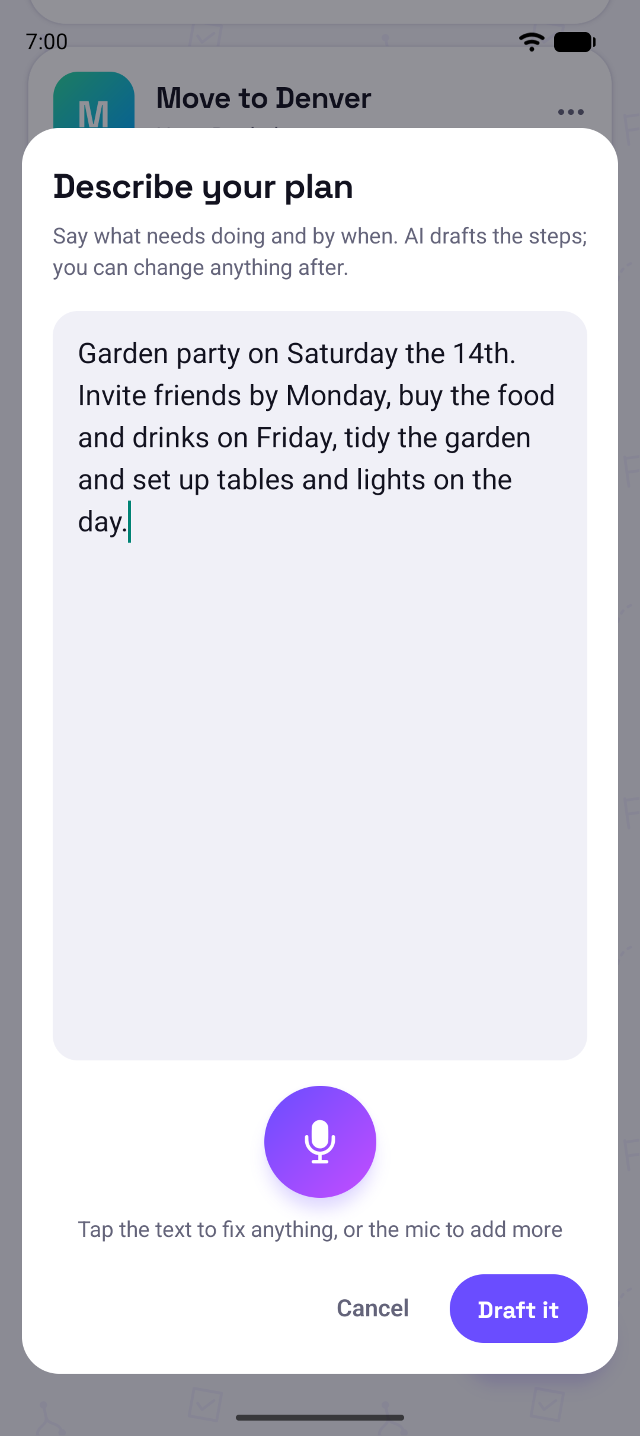
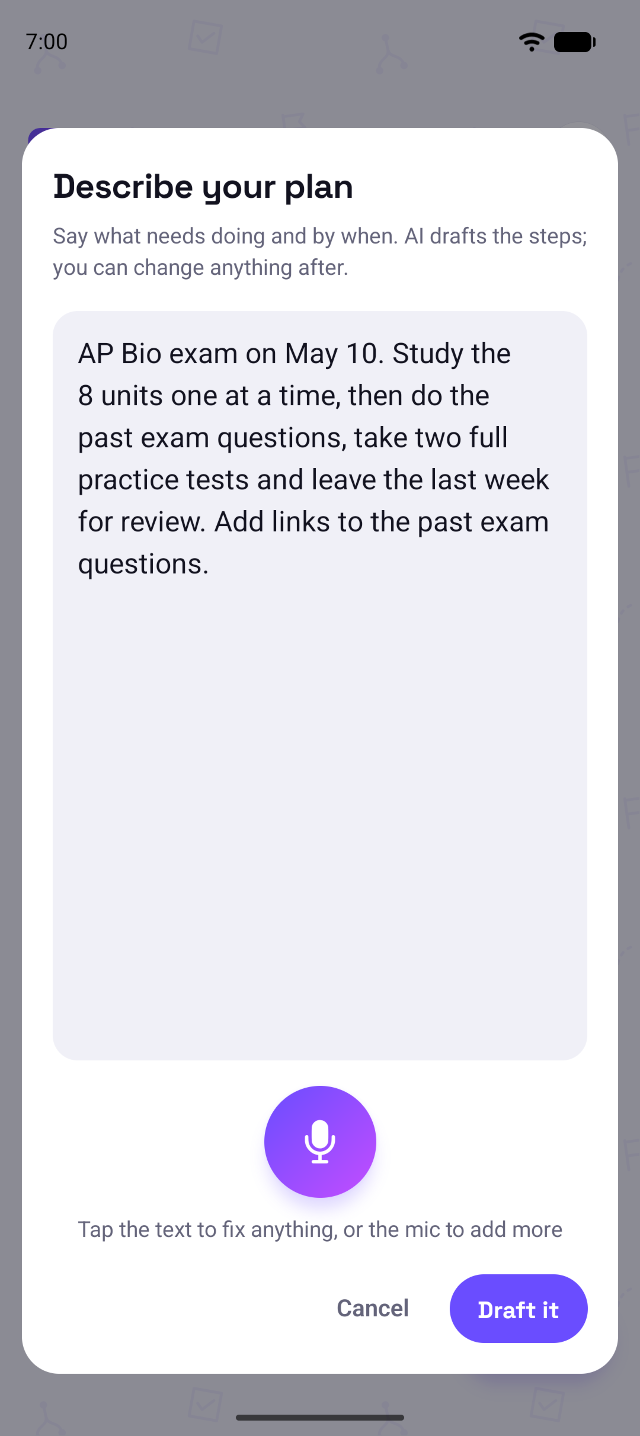
Describe it: a real AP Bio exam plan, its map and a task with a tappable link to past exam questions

Changed region(s): [[0.125, 0.2145, 0.8438, 0.3983], [0.25, 0.0613, 0.5625, 0.0919], [0.0625, 0.0306, 0.2188, 0.0919]]

diff --git a/index.html b/index.html
@@ -196,20 +196,20 @@
       <div class="container describe">
         <div class="describe__copy">
           <h2>Just say what you’re planning</h2>
-          <p>Type it, or tap the mic and say it: “Garden party on Saturday. Invite friends, buy the food and drinks, tidy the garden and set up tables.” AI drafts the steps, what waits on what, and when each is due.</p>
+          <p>Type it, or tap the mic and say it: “AP Bio exam on May 10. Study the 8 units one at a time, then do the past exam questions, take two full practice tests and leave the last week for review. Add links to the past exam questions.”</p>
+          <p>AI drafts the steps, what waits on what, and when each is due: all eight units in order through the winter, practice tests in April, and the College Board’s past exam questions linked right in the task, ready to tap.</p>
           <p>It plans by the hour as well as the day. Try “Christmas dinner for 10, everything ready by 3pm” and every dish gets its own timed steps, from the turkey going in to carving, with handy notes like oven temperatures. Holidays such as Thanksgiving and Mother’s Day land on your country’s date.</p>
-          <p>It’s good for exam prep, too. “AP Bio exam on May 11. Go through every unit, do the past free-response questions, two full practice tests” becomes weeks of steps that build toward the day, with notes on where to find the material.</p>
           <p>The draft opens on the map, ready to change. Nothing starts until you tap Begin.</p>
           <p class="describe__note">Part of Zayvori Premium, free for 14 days. Your description, today’s date and your phone’s country setting are sent to draft the steps; nothing else leaves your phone. <a href="privacy.html#describe-it">What’s sent</a>.</p>
         </div>
         <div class="describe__shots">
           <div class="phone phone--shot phone--small">
-            <img src="assets/screens/describe-dialog.png" width="640" height="1436" loading="lazy"
-              alt="The Describe it box with a garden party plan typed in, and a Draft it button." />
+            <img src="assets/screens/describe-map.png" width="640" height="1436" loading="lazy"
+              alt="The drafted AP Bio exam prep plan on the map: the eight units one after another, from Chemistry of life in November onward, each with its date." />
           </div>
           <div class="phone phone--shot phone--small describe__second">
-            <img src="assets/screens/describe-map.png" width="640" height="1436" loading="lazy"
-              alt="The drafted Garden party plan on the map: invite friends and tidy the garden first, then food, drinks, and tables." />
+            <img src="assets/screens/describe-note.png" width="640" height="1436" loading="lazy"
+              alt="A task from the draft, Work through the past exam questions, with a tappable link to the College Board’s past AP Biology exam questions in its notes." />
           </div>
         </div>
       </div>

diff --git a/styles.css b/styles.css
@@ -199,7 +199,7 @@ p { margin: 0; }
 .describe h2 { font-size: clamp(30px, 4vw, 42px); margin-top: 10px; }
 .describe__copy p { color: var(--muted); margin-top: 16px; font-size: 18px; }
 .describe__copy .describe__note { font-size: 15px; }
-.describe__shots { display: flex; justify-content: center; }
+.describe__shots { display: flex; justify-content: center; align-items: flex-start; }
 .describe__shots .phone--small { width: 250px; margin: 0; }
 .describe__second { margin: 64px 0 0 -40px !important; }
 @media (max-width: 900px) {
